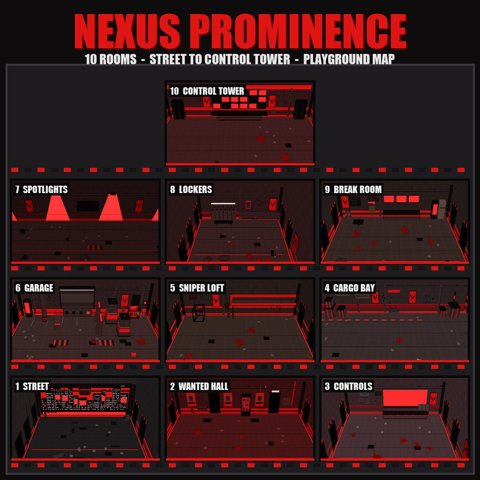
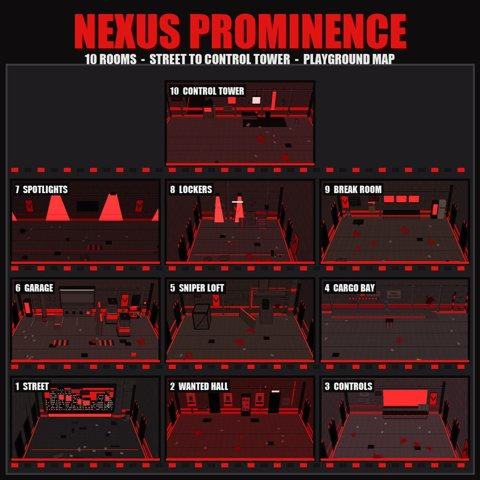
Release zzb: change notes and handoff

diff --git a/ai-docs/HANDOFF.md b/ai-docs/HANDOFF.md
@@ -8,7 +8,7 @@ Status: open. Set up 2026-11-15; nothing studied or built yet.
 
 - The ask (2026-11-15): the owner sees ramps, steps, higher areas and pillars in the film that the rooms do not show, and wants a closer inspection and rooms close to the film. A player also reported that the backup is only met when walking back through finished rooms and that the level can be finished without seeing any. Both are quoted in the brief.
 - The owner's five screenshots are in the lab's `frames/` folder as `owner-2026-11-15-*.png`. Placed in the film on 2026-11-15: three are the pillar-and-pylon hall (room 6, 8:49, 9:02, 9:13), the balcony is the sniper loft (room 5, 6:03), the admin room is the film's last room (room 10, 10:47). The brief's first guesses for the 8:49 shot and the admin room were wrong.
-- Build players have now: zw (Workshop item 3837705778, released 2026-11-16 on the owner's word after their play; mods.log 07:46 and Player.log 07:52 and Player-prev.log 07:21 clean apart from the stock terrain-shader warning, 0 exceptions, 11 squad-killed events; deployed .sobj md5 = lab sobj-zw). Next build letter: zzd (after zz the letters run zza, zzb, ...; rebuild.sh takes any string). zzc (zzb plus the walkable room-4 deck) is deployed, not played; zx to zzb not played either. One play of zzc covers all six unplayed rounds, and is the play of the first walkable structure (prompt C1): nothing else walkable is built before it.
+- Build players have now: zzb (Workshop item 3837705778, released 2026-11-16 on the owner's word "testing went well" after their play of zzb, which covers rounds zx, zy, zz, zza and zzb; change-notes-2026-11-16zzb.txt; wsup result OK, previews result 1; .sobj md5 d386a905 = lab sobj-zzb). Next build letter: zzc. Nothing unplayed is deployed.
 - Reinforcements (part A) done 2026-11-15: build zv (lab sobj-zv), PR #22, toggle ArrivalsMidFight. Cause: Squad_DataAssigner.Update stamps a squad's timer when its room becomes current, checks it only while current and never resets it; nothing holds the player in a room, so zu's timers from entry (20/18/20 s in rooms 4, 7, 10) lost to a fast clear and fired on re-entry. The unit cap was not the cause (Wave_Manager.CheckReadyToSpawn skips it for a first squad). zv: every door squad waits for the alarm, then 2/4/3/3 s (rooms 2/4/7/10), one squad, cap placed + squad; counts and positions unchanged. Gates pass; unverified in game. madnesswright 1.0.3 adds scene-lint S22 and corrects scenetools-rules.md.
 - Reinforcement fix: played and released 2026-11-15 (change-notes-2026-11-15zv.txt). Later builds may stay deployed.
 - Structure sheets (prompt, part B): done 2026-11-15 for all ten rooms plus the film's generator room, in [notes/film-geometry/](notes/film-geometry/). Which film set and time range is each room: [notes/film-geometry/film-room-map.md](notes/film-geometry/film-room-map.md) (the owner asked for this table so rooms are not guessed). Rooms 4 and 7 were read from contact sheets only, sizes rough. Open questions from the studies: room 3 shows about 10 enemies and room 8 about 10 in the film, against 3 each on the map and the older film table below; that table needs re-reading against the new spans before counts change. Build order from the sheets: rooms in the owner's screenshots first (6 pillar hall, 5 loft, 10 admin room), then the widest gaps (8 steps and spotlights, 4 raised deck, 1 window sill).

diff --git a/ai-docs/log.md b/ai-docs/log.md
@@ -50,3 +50,5 @@ Earlier history: madnesswright's ai-docs/log.md and its git history (this reposi
 - 2026-11-16 Part C round 6 (build zzb, room 1 street checkpoint): FilmRoom1Structures narrows the window to the film's span with a solid waist-high sill and right pilaster, moves the sign, drops the boom barrier; left block and counter left out (door gate). Gates pass after one fix (door gate, pilaster dropped as filler by the overlap scan); sobj-zzb in the lab and deployed (last round, unplayed); judge skipped on owner's word. Next letter zzc.
 - 2026-11-16 Part C walkable proof (build zzc, room 4): owner's play report "I couldn't get up the little ramp". FilmRoom4Walkable: deck collider Terrain + Floor, wedge collider dropped, invisible Interactive ramp box (10.6 deg over 3.6 units, no lengthening), ForceConnect waypoints foot/head. Gates pass first time; sobj-zzc (md5 1919beb2) in the lab and deployed; judge skipped; unverified in game.
 - 2026-11-16 madnesswright 1.0.7 (PR #133, released, installed): scene-lint S23 by_room names a prefab-instance room (room 1 showed as "?"). Toolkit lessons from rounds 3-5 (zy, zz, zza) stay in their round entries: tilted parts cross their case in the overlap scan, Solidify skips pieces under 0.8 units and wall-wide pieces, the overlap scan drops a structure that crosses a window frame as filler.
+
+- 2026-11-16: zzb (rooms 1, 4, 5, 8, 10 on top of zw) played by the owner ("testing went well") and released to Workshop 3837705778 with change-notes-2026-11-16zzb.txt via tools/release.sh (upload OK, previews OK). Steam changelog page returns nothing to curl, so the live text was not read back.
